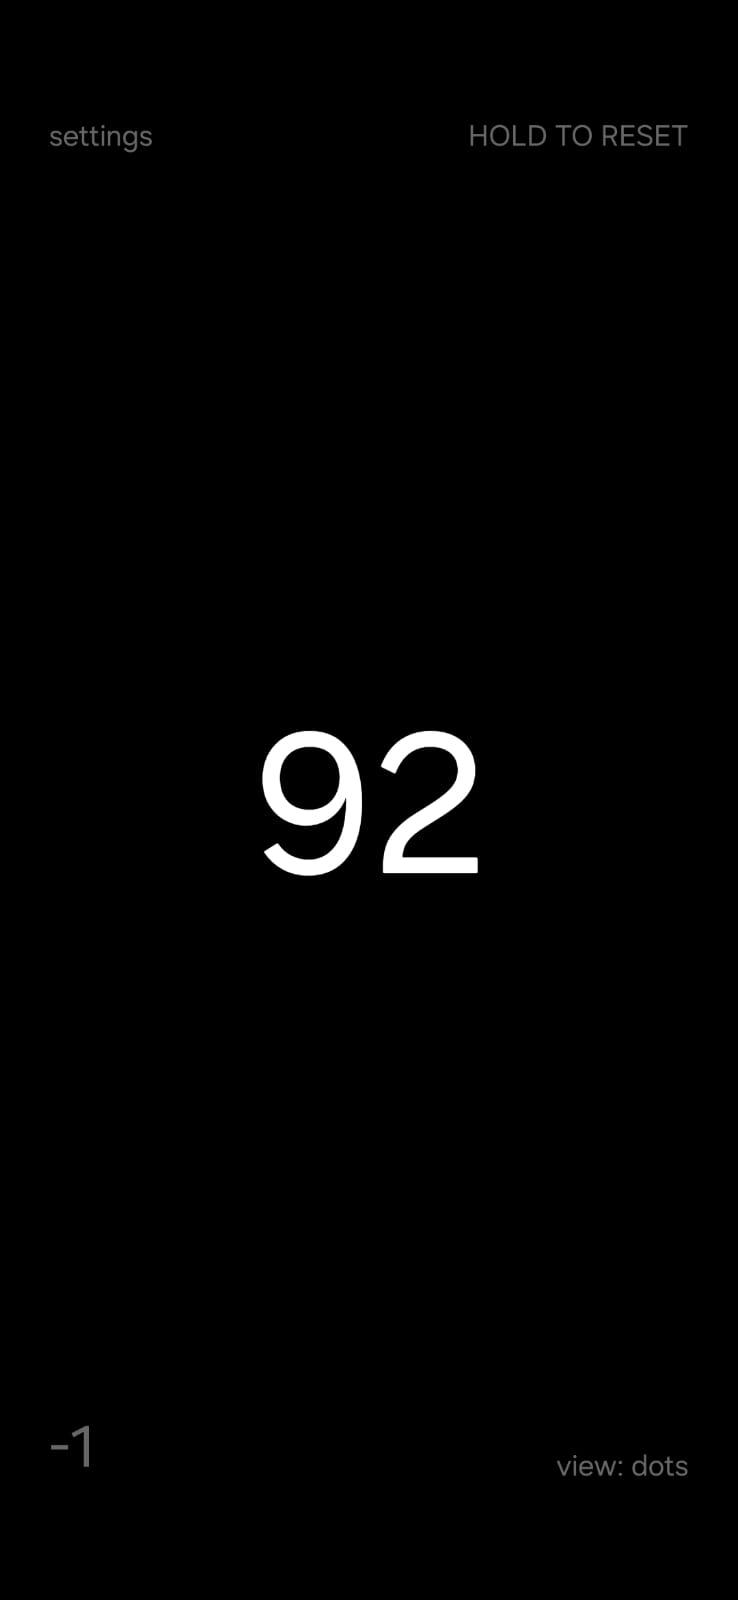
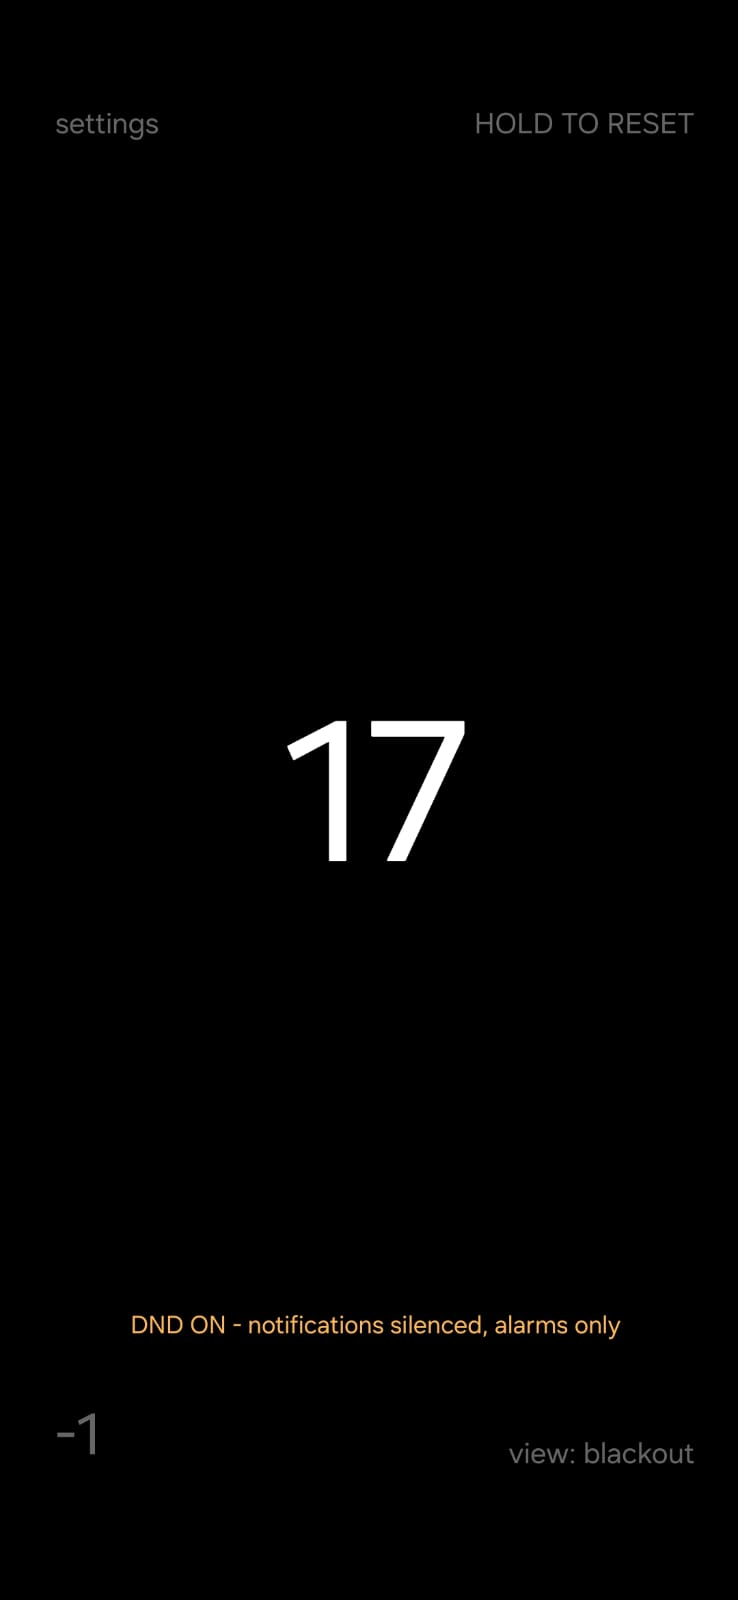
readme: add more screenshots

diff --git a/README.md b/README.md
@@ -8,7 +8,14 @@ A tiny tap counter for AMOLED screens. Pure Java, no libraries, no network, tiny
   <img src="fastlane/metadata/android/en-US/images/phoneScreenshots/1.jpg" width="200">
   <img src="fastlane/metadata/android/en-US/images/phoneScreenshots/2.jpg" width="200">
   <img src="fastlane/metadata/android/en-US/images/phoneScreenshots/3.jpg" width="200">
+  <img src="fastlane/metadata/android/en-US/images/phoneScreenshots/4.jpg" width="200">
+  <img src="fastlane/metadata/android/en-US/images/phoneScreenshots/5.jpg" width="200">
+  <img src="fastlane/metadata/android/en-US/images/phoneScreenshots/6.jpg" width="200">
+  <img src="fastlane/metadata/android/en-US/images/phoneScreenshots/7.jpg" width="200">
+  <img src="fastlane/metadata/android/en-US/images/phoneScreenshots/8.jpg" width="200">
 </p>
+
+(yes the third screenshot is a feature, you can count with ur screen off ish on amoled displays)
 
 ## Use
 
